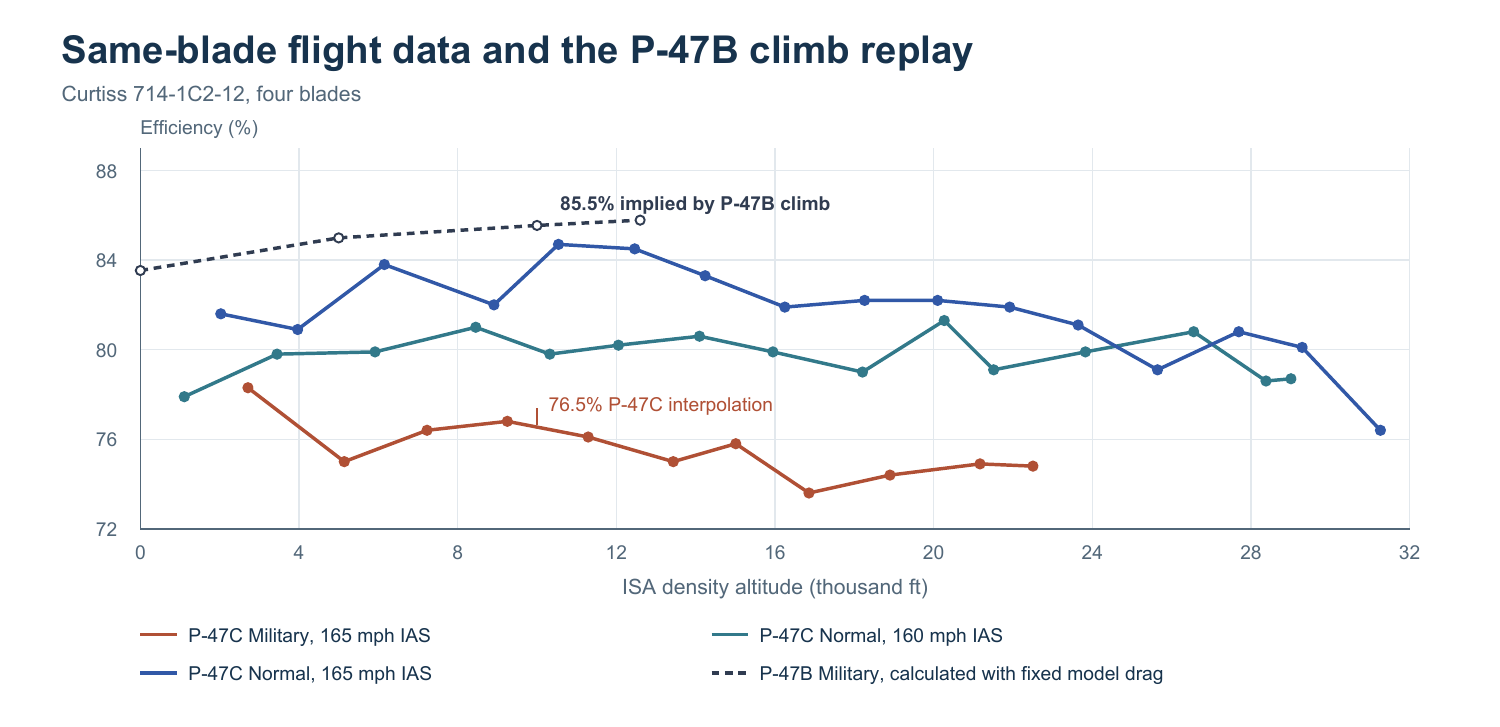
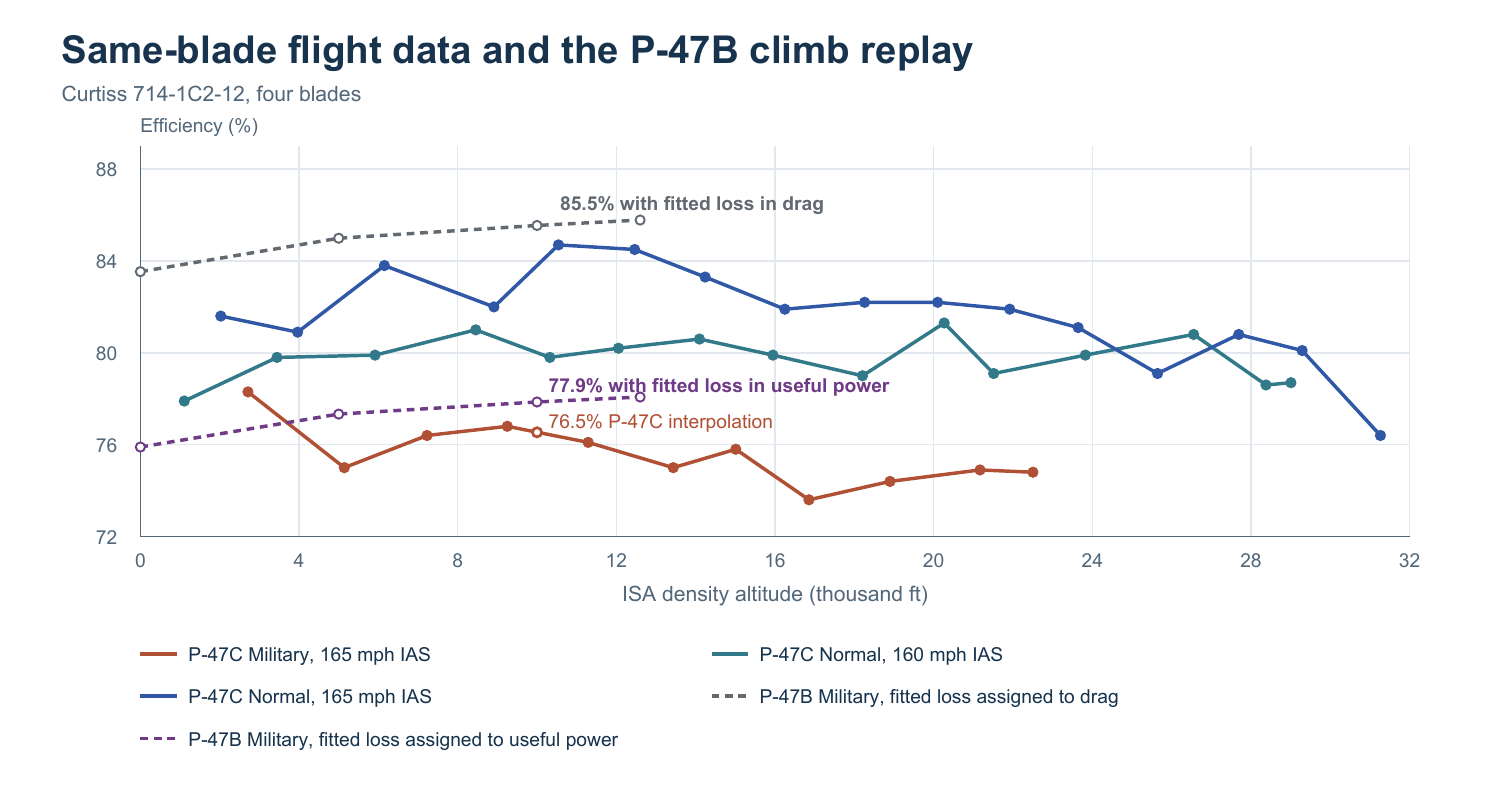
Clarify propeller efficiency and installed loss in data v1.2.1

diff --git a/docs/research/WW2_PROPELLER_EFFICIENCY_2026-11-11.md b/docs/research/WW2_PROPELLER_EFFICIENCY_2026-11-11.md
@@ -1,4 +1,4 @@
-# Fighter Sim Inputs v1.2 · Propeller efficiency
+# Fighter Sim Inputs v1.2.1 · Propeller efficiency
 
 The data release adds 67 readings from two original test programs, 48 source-condition replays and 25 propeller-swap comparisons. An efficiency-only sweep covers seven modeled fighters on simulator **4.9.0-rc.1**, commit `079d955d58425637cffcd84540198dde7f2a0a5d`. The build exposes a separate research companion linked by SHA-256 from the data pack. [Sim input pack](../../references/analysis/fighter-sim-inputs-v1.json) · [Propeller data and results](../../references/analysis/fighter-propeller-efficiency-v1.json) · [Original readings](../../references/research/ww2_propeller_efficiency_2026-11-11.json)
 
@@ -27,15 +27,18 @@ For a steady source case, divide modeled drag power plus the observed climb's we
 
 | Reference aircraft | Result under matched reported conditions | Use for the next data check |
 | --- | --- | --- |
-| **P-47B 41-5902** | At 10,000 ft and 196 mph TAS, 2,000 torque-meter BHP and 2,465 ft/min require **85.5%** with the current modeled drag. The P-47C same-blade density interpolation yields **76.5%**. Its source endpoints are 76.1% and 76.8%. | The estimated J, Cp and tip Mach are 1.050, 0.206 and 0.842 versus 1.031, 0.204 and 0.828 in the donor. The donor replay gives **1,992 ft/min** with the current drag. Matching both numbers would require about **180 hp less equivalent drag power** at that state. Audit the combined open-cooling and propulsion losses against a separate drag observation. |
-| **P-38G-1 42-12687** | At 5,000 ft and 284 mph TAS the report gives **600 chart BHP per engine**. The current polar requires **629 hp per engine** at 100% efficiency. Six of 13 rows exceed the shaft-power ceiling. | Prioritize the part-power engine chart and clean drag. Raising efficiency alone cannot reconcile those rows. |
-| **F4U-4 80765** | At 29,000 ft and 385 kt TAS, the military chart's **1,800 BHP with a ±50 hp reading allowance** gives **88.0–93.1%**, centered at **90.5%**, with the existing clean polar. The current propeller equation gives **81.7%** at that chart state. | This 5.0-point band propagates chart-reading uncertainty only. It is a quantitative starting interval for the high-blower source replay. The sea-level military chart band includes the modeled value. |
+| **P-47B 41-5902** | At 10,000 ft, 196 mph TAS, 2,000 torque-meter BHP and 2,465 ft/min, the full fitted drag budget implies **85.5%** upstream of its installed-loss term. Assigning that term to useful power gives **77.9%**. The same-blade P-47C interpolation yields **76.5%** with observed endpoints of 76.1% and 76.8%. | The estimated J, Cp and tip Mach are 1.050, 0.206 and 0.842 versus 1.031, 0.204 and 0.828 in the donor. With the fitted power-proportional term allocated to useful power, the donor replay gives **2,396 ft/min** and a **26 hp** residual. |
+| **P-38G-1 42-12687** | At 5,000 ft and 236 mph TAS, the report gives **290 chart BHP per engine**. The current clean polar requires **397 hp per engine** at 100% efficiency. Six of 13 rows exceed the shaft-power ceiling. | Keeping modeled induced drag, the 236 mph point sets an upper limit of **0.0174** on a constant zero-lift drag coefficient even at 100% efficiency. The 346 mph row would need **0.0219** at 80% efficiency. A single drag-coefficient reduction would force the 346 mph case below 65% efficiency. Check the part-power engine chart and the speed dependence of the drag. |
+| **F4U-4 80765** | At 29,000 ft and 385 kt TAS, the military chart's **1,800 BHP with a ±50 hp reading allowance** gives **88.0–93.1%**, centered at **90.5%**, with the existing clean polar. The current propeller equation gives **81.7%** at that chart state. | At 81.7%, the same modeled drag would require **1,994 BHP**. At 1,800 BHP it would require **159 hp less drag power**. The 5.0-point interval reflects chart-reading uncertainty with drag held fixed. The discrepancy also appears in the high-altitude Normal branch. |
 | **Spitfire LF IX BS.543** | The +18 psi Table II climb at 10,000 ft requires **92.9%** equivalent useful power with the boost-derived shaft power and fitted climb configuration. | A separate RA.10061 thrust/torque table or installed-power measurement would resolve the shaft, drag and propeller contributions. |
 | **P-51B-15 43-24777** | The clean **75 inHg** experimental point at 20,800 ft and 444 mph TAS needs **90.7%** with the Packard chart BHP and test takeoff-weight proxy, versus **86.5%** in the same input replay. | Keep the 75 inHg case separate from the operational 67 inHg rating. The same-blade Mustang IV TK589 gives installation evidence. NACA L4L18 identifies high-speed losses on 43-12105 with power-estimate ambiguity. |
 
 ![Curtiss propeller efficiency by density altitude on the P-47C, with the conditional P-47B military replay](P47_CURTISS_EFFICIENCY.png)
 
-The chart uses the published P-47C density ratios and the P-47B report altitudes in ISA. The dashed P-47B series is the efficiency implied by the observed climb with the current modeled drag.
+The chart uses published P-47C density ratios and P-47B report altitudes in ISA. The two dashed P-47B series allocate the fitted loss to either the drag or useful-power side of the balance.
+
+The P-47B v4.1 fit represents the installation with a fixed 0.145 m² drag area and a second term equal to 9% of modeled useful propeller power. At 10,000 ft that second term is 153.7 hp. Moving it from modeled drag to useful-power loss takes the implied efficiency from 85.5% to 77.9% and reduces the apparent donor gap from 9.0 to 1.3 percentage points. The 5,000-ft and 12,600-ft military points give gaps of 2.1 and 2.7 points under the same allocation. The result retains the fixed drag area. The allocation between real propeller, cooling and other installation losses needs an independent measurement. These point calculations use the original replay's weight-times-climb-rate convention. [Installed energy model and fit](../V41_ENERGY_RESULTS.md) · [Source climb replays](../V43_MODEL_CHECKS.md)
+
 
 The **P-47B 41-5942** December 1942 swap tests supply an independent aircraft and a different experiment. In the matched 10,000-ft, 185 mph TAS, 2,000 torque-meter BHP case, the 13 ft Hamilton 6501A-0 installation climbed **280 ft/min** faster than the cuffed Curtiss 714. That is a **5.35 percentage-point equivalent useful-power difference** with common drag as the calculation reference. The Hamilton's gain spans **5.11–5.93 points** across the five matched climb states. The calculation includes any change in installed slipstream drag. The P-40F swap tests carry changes in BHP, TAS and spinner and are preserved as separate original conditions. [P-47B 41-5902 and 41-5942 original Wright Field reports](https://www.wwiiaircraftperformance.com/org/p-47/p-47.html) · [P-38G FS-M-19-1538-A, printed p. 2](https://www.wwiiaircraftperformance.com/org/p-38/p-38_files/P-38G-1_42-12687_FS-M-19-1538-A.pdf) · [F4U-4 VF-96 Plate 3](https://www.wwiiaircraftperformance.com/org/f4u/f4u_files/80765-level.jpg) · [Mustang audit](../P51_PROPELLER_EFFICIENCY_AUDIT.md) · [Swap test data](../../references/research/ww2_multiaxis_propulsion_trials_2026-11-10.json)
 
@@ -61,7 +64,7 @@ At 10,000 ft the P-51B's level-speed range lies entirely above the P-47B's. At 3
 
 ## Coverage and use
 
-| Coverage across 13 variants | v1.1.0 | v1.2.0 | Delta |
+| Coverage across 13 variants | v1.1.0 | v1.2.1 | Delta |
 | --- | ---: | ---: | ---: |
 | Primary | 63.62% | 63.62% | 0 pp |
 | With secondary | 64.15% | 64.15% | 0 pp |
@@ -72,6 +75,7 @@ At 10,000 ft the P-51B's level-speed range lies entirely above the P-47B's. At 3
 The 67 new readings belong to the P-47C and RAE tunnel installations. The replays and stress tests are calculated diagnostics. None supplies a new exact-variant benchmark agreement within the existing rules. Primary source values, calculation ranges and sweep scenarios remain individually traceable. [Coverage and selection rules](WW2_FIGHTER_SIM_INPUTS_V1.md)
 
 - The build pairs `dist/fighter-propeller-efficiency.json` with `dist/research-catalog.json`. Join `primary_series[].observations` and replay observation IDs to the catalog. The P-47B and BS.543 climb cases also link to the existing source-state files.
+- In the P-47B rows, `equivalent_eta` uses the entire fitted drag budget. `propeller_comparison` records the alternative assignment of the fitted power-proportional term to useful power. Both carry their modeling conditions. The donor replay fields give the corresponding climb and drag residuals.
 - For graphs, use measured readings within their own test branches. The RAE tunnel groups use Table 3 rows 1–6, 7–14, 15–22 and 24–26. Draw the calculated replays separately from these measured readings. Display the F4U-4 chart-reading bands only on the corresponding source case.
 - Every output array in a sweep case follows `sweep.input.output_factors`. Preserve nulls and the supported rating-altitude domain. Label shaded ±5% or ±20% scenarios with their actual factors. No confidence level is assigned to their widths.
 - Reproduce the companion on the pinned simulator inputs with `node validation/diagnostics/fighter_propeller_efficiency.cjs --check`. For every factor, use `node validation/diagnostics/fighter_propeller_efficiency.cjs --full --output <path>`. The input pack's generator checks its link with `node scripts/fighter-sim-inputs.cjs --check`.

diff --git a/docs/SIMULATOR_DATA_HANDOFF.md b/docs/SIMULATOR_DATA_HANDOFF.md
@@ -1,6 +1,6 @@
 # Simulator data handoff
 
-**Fighter Sim Inputs v1.2.0**, dated **11 November 2026**, is the current pack. It covers 13 aircraft variants. The JSON's `version` field identifies the pack on each branch. [Canonical data pack](../references/analysis/fighter-sim-inputs-v1.json) · [Coverage and data contract](research/WW2_FIGHTER_SIM_INPUTS_V1.md)
+**Fighter Sim Inputs v1.2.1**, dated **11 November 2026**, is the current pack. It covers 13 aircraft variants. The JSON's `version` field identifies the pack on each branch. [Canonical data pack](../references/analysis/fighter-sim-inputs-v1.json) · [Coverage and data contract](research/WW2_FIGHTER_SIM_INPUTS_V1.md)
 
 | File in the build | Use |
 | --- | --- |
@@ -28,7 +28,7 @@ Coverage measures available evidence for the research dossier. The source condit
 
 ## Notes for Simulator Work
 
-- The propeller study could support a paired replay of P-47B measured shaft power and open-cooling drag, a high-blower check for the F4U-4, and a part-power chart and drag check for the P-38G. The source brackets are scoped to each test condition. The fleet sweep gives separately labeled efficiency scenarios for graph comparisons. [Propeller-efficiency findings](research/WW2_PROPELLER_EFFICIENCY_2026-11-11.md)
+- The P-47B propeller comparison shows how the fitted installation term affects the donor replay. At 10,000 ft, assigning the 153.7 hp term to useful power gives 77.9% implied efficiency against the same-blade P-47C's 76.5%. The P-38G part-power replay exceeds its shaft-power ceiling at six points. The Corsair's high-blower bracket assumes the current clean drag. [Propeller-efficiency findings](research/WW2_PROPELLER_EFFICIENCY_2026-11-11.md)
 
 - An initial G-2 comparison could focus on level TAS and climb. MT-215 flew at about 2,540 rpm actual, with 1.30–1.32 ata on the documented level-speed branch below full-throttle height. The original Finnish graph covers upper climb from 5 to 10 km. The pack identifies service rating limits, the WNF standardized speed runs and the Soviet gun-pod test as separate evidence. [Finnish trial and climb chart](research/WW2_FIGHTER_CALCULATED_EVIDENCE_2026-11-11.md#findings-that-affect-how-the-data-should-be-used) · [G-2 rating and configuration records](research/WW2_GERMAN_FIGHTER_ARCHIVE_2026-11-11.md#bf-109-g-2)
 - The pack's accepted cases carry preferred values, conditions, source grades, original observation IDs and uncertainty. Connecting a new profile to its research ID would bring its source-agreement records into the comparison. The existing references describe profile intake and the graph conventions. [Aircraft intake](../references/aircraft-intake.json) · [Data contract](research/WW2_FIGHTER_SIM_INPUTS_V1.md#simulator-handoff)

diff --git a/references/README.md b/references/README.md
@@ -1,6 +1,6 @@
 # Research and imported evidence
 
-**Fighter sim inputs v1.2.0.** The [versioned data pack](analysis/fighter-sim-inputs-v1.json) provides preferred source-case values, original observation links, curve styles, ranges and GOLD and GOLD* coverage for thirteen variants. Build output includes the data pack and the full research catalog. [Coverage changes and simulator handoff](../docs/research/WW2_FIGHTER_SIM_INPUTS_V1.md)
+**Fighter sim inputs v1.2.1.** The [versioned data pack](analysis/fighter-sim-inputs-v1.json) provides preferred source-case values, original observation links, curve styles, ranges and GOLD and GOLD* coverage for thirteen variants. Build output includes the data pack and the full research catalog. [Coverage changes and simulator handoff](../docs/research/WW2_FIGHTER_SIM_INPUTS_V1.md)
 
 **Propeller efficiency.** The [companion dataset](analysis/fighter-propeller-efficiency-v1.json) links the [NACA and RAE readings](research/ww2_propeller_efficiency_2026-11-11.json) to condition-specific replays and a seven-aircraft efficiency sweep. [Research and simulator-use notes](../docs/research/WW2_PROPELLER_EFFICIENCY_2026-11-11.md)
 

diff --git a/docs/research/WW2_FIGHTER_SIM_INPUTS_V1.md b/docs/research/WW2_FIGHTER_SIM_INPUTS_V1.md
@@ -1,4 +1,4 @@
-# Fighter sim inputs v1.2.0
+# Fighter sim inputs v1.2.1
 
 The data pack covers 13 variants and 23 evidence plots. It carries preferred readings and uncertainty for reviewed cases, pointers to the original observations, and the support level of each curve segment. The simulator can use it to look up a specific test case and draw the evidence behind it. [Versioned JSON](../../references/analysis/fighter-sim-inputs-v1.json) · [Underlying calculations and source checks](WW2_FIGHTER_CALCULATED_EVIDENCE_2026-11-11.md)
 
